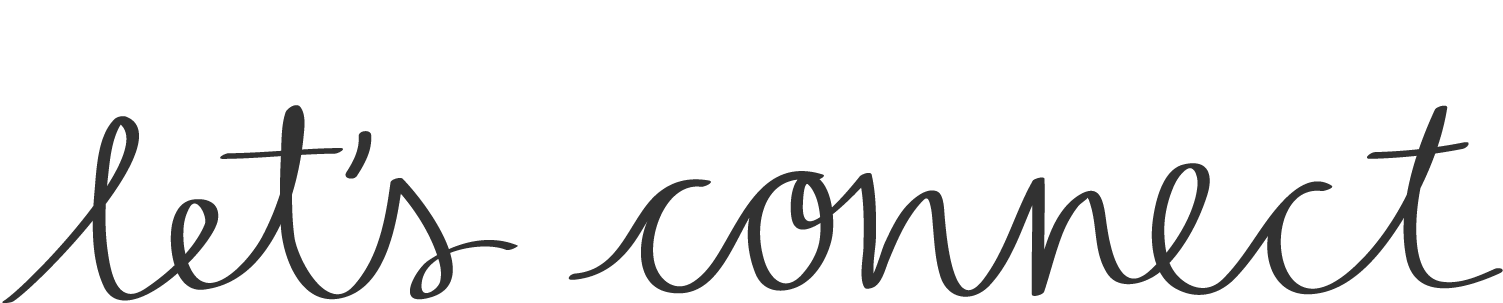
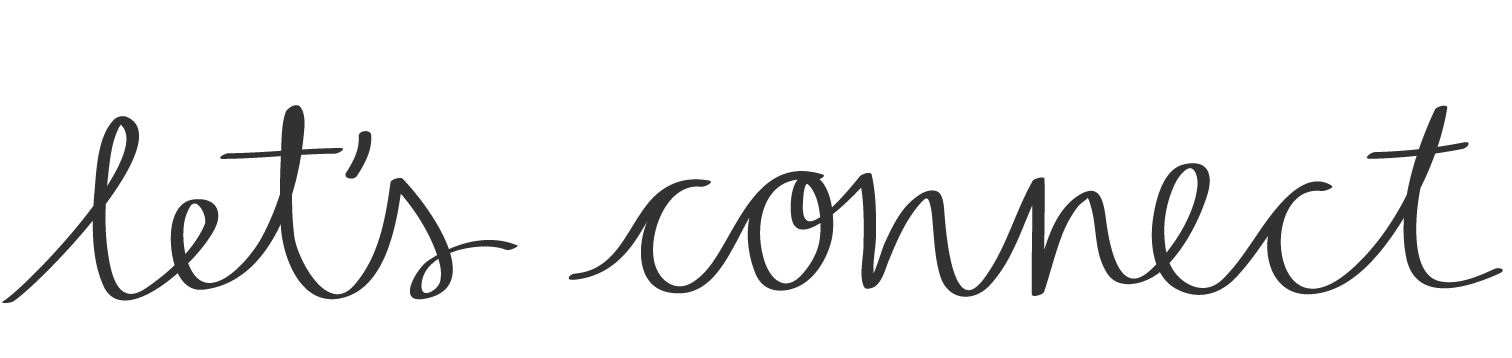
font colors

diff --git a/about.html b/about.html
@@ -29,7 +29,7 @@
         <section class="graphic-head"><img src="img/hi.png"></section>
       </div>
       <div class="col-md-6 content">
-        <p class="about">
+        <p class="about pink">
           graphic designer <br>
           uchicago economics + visual arts student <br>
           boston born + bay area native <br>
@@ -37,7 +37,7 @@
           brunch enthusiast + coffee fanatic <br>
           happy happy happy
         </p>
-        <p>
+        <p class="grey">
           i'm currently a second year at the university of chicago trying to pursue data driven + design related projects that interest me. <br> <br>
           if i'm not playing chess at chromatic coffee, you can probably find me watching criminal minds, reading a piece from the new yorker, or grocery shopping at whole foods in my free time. <br> <br>
           i just want to have some fun.

diff --git a/contact.html b/contact.html
@@ -29,10 +29,10 @@
         <section class="graphic-head"><img src="img/connect.png"></section>
       </div>
       <div class="col-md-6 content">
-        <p>
+        <p class="about grey">
           Check out my <a href="resume.pdf" target="_blank">full resume</a>, or connect with me via your favorite method below.
         </p>
-        <p class="about">
+        <p class="grey">
           EMAIL: <a href="mailto:hjjc@uchicago.edu">hjjc@uchicago.edu</a> <br>
           PHONE: <a href="tel:14084062328">(408) 406-2328</a> <br>
           INSTAGRAM: <a href="https://www.instagram.com/helenjjchen/">@helenjjchen</a> <br>

diff --git a/styles.css b/styles.css
@@ -76,7 +76,6 @@ div.content{
   div.content p {
     margin: 20px 15px 5px;
     font-family: 'Source Sans Pro';
-    color: #FF9491;
     font-size: 16px;
     line-height: 22px;
     text-align: left;
@@ -85,6 +84,14 @@ div.content{
   div.content p.about {
     line-height: 32px;
   }
+
+div.grey{
+  color: #313131;
+}
+
+div.pink{
+  color: #FF9491;
+}
 
 div.photo {
     text-align: center;
@@ -105,7 +112,7 @@ section.graphic-head {
     }
 }
   section.graphic-head img {
-    height: 57px;
+    width: 285px;
   }
 
 p a{
